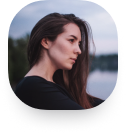
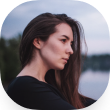
[+] Topbar

diff --git a/lib/main.dart b/lib/main.dart
@@ -1,6 +1,5 @@
-import 'dart:ffi';
-
 import 'package:flutter/material.dart';
+import 'topbar.dart';
 
 void main() {
   runApp(const MyApp());
@@ -18,84 +17,22 @@ class MyApp extends StatelessWidget {
         colorScheme: ColorScheme.fromSeed(seedColor: Colors.deepPurple),
         useMaterial3: true,
       ),
-      home: MyHomePage(),
+      home: const MyHomePage(),
     );
   }
 }
 
 class MyHomePage extends StatelessWidget {
+  const MyHomePage({super.key});
+
   @override
   Widget build(BuildContext context) {
     return Scaffold(
       body: ListView(
         children: [
-          const SizedBox(height: 44),
-          Stack(
-            alignment: AlignmentDirectional.topCenter,
-            fit: StackFit.loose,
-            clipBehavior: Clip.none,
-            children: <Widget>[
-              Row(
-                mainAxisAlignment: MainAxisAlignment.spaceBetween,
-                children: [
-                  IconButton(onPressed: (){}, icon: Image.asset("assets/images/cross.png")),
-                  IconButton(onPressed: (){}, icon: Image.asset("assets/images/exit.png"))
-                ]),
-              Positioned(
-                top: 14,
-                child: ImageBanner("assets/images/woman.png", 110, 110, 38) 
-              ),
-              const Positioned(
-                top: 157,
-                child: Text(
-                  "Екатерина",
-                  textAlign: TextAlign.center,
-                  style: TextStyle(
-                  color: Colors.black,
-                  fontSize: 24,
-                  ),
-                )
-              )
-            ]
-          ),
-          const SizedBox(height: 14)
-        ]
+          topbar()
+        ],
       )
     );
   }
 }
-
-class ImageBanner extends StatelessWidget {
-  final String assetPath;
-  final double width;
-  final double height;
-  final double borderRadius;
-
-  ImageBanner(this.assetPath, this.width, this.height, this.borderRadius);
-
-  @override
-  Widget build(BuildContext context) {
-    return Container(
-      width: width,
-      height: height,
-      decoration: ShapeDecoration(
-          image: DecorationImage(
-              image: AssetImage(assetPath),
-              fit: BoxFit.fill,
-          ),
-          shape: RoundedRectangleBorder(
-              borderRadius: BorderRadius.circular(borderRadius),
-          ),
-          shadows: [
-              BoxShadow(
-                  color: Color(0x7A1D1D25),
-                  blurRadius: 24,
-                  offset: Offset(0, 16),
-                  spreadRadius: -16,
-              )
-          ],
-      ),
-    );
-  }
-}
-

diff --git a/lib/topbar.dart b/lib/topbar.dart
@@ -1,0 +1,46 @@
+import 'package:flutter/material.dart';
+
+Widget topbar(){
+  return Stack(
+    children: [
+      Positioned(
+        top: 53,
+        left: 14,
+        height: 24,
+        width: 24,
+        child: Image.asset("assets/images/cross.png")
+      ),
+      Positioned(
+        top: 53,
+        right: 14,
+        height: 24,
+        width: 24,
+        child: Image.asset("assets/images/exit.png")
+      ),
+      Center(
+        child: Column(children: <Widget>[
+          Padding(
+            padding: const EdgeInsets.only(top: 58, bottom: 36),
+            child: Container(
+              width: 110,
+              height: 110,
+              decoration: const BoxDecoration(
+                image: DecorationImage(
+                  image: AssetImage('assets/images/woman.png'),
+                  fit: BoxFit.fill,
+                ),
+              ),
+            ),
+          ),
+          const Text(
+            "Екатерина",
+            style: TextStyle(
+                fontSize: 24,
+                fontWeight: FontWeight.w700,
+            ),
+          ),
+        ])
+      )
+    ]
+  );
+}
